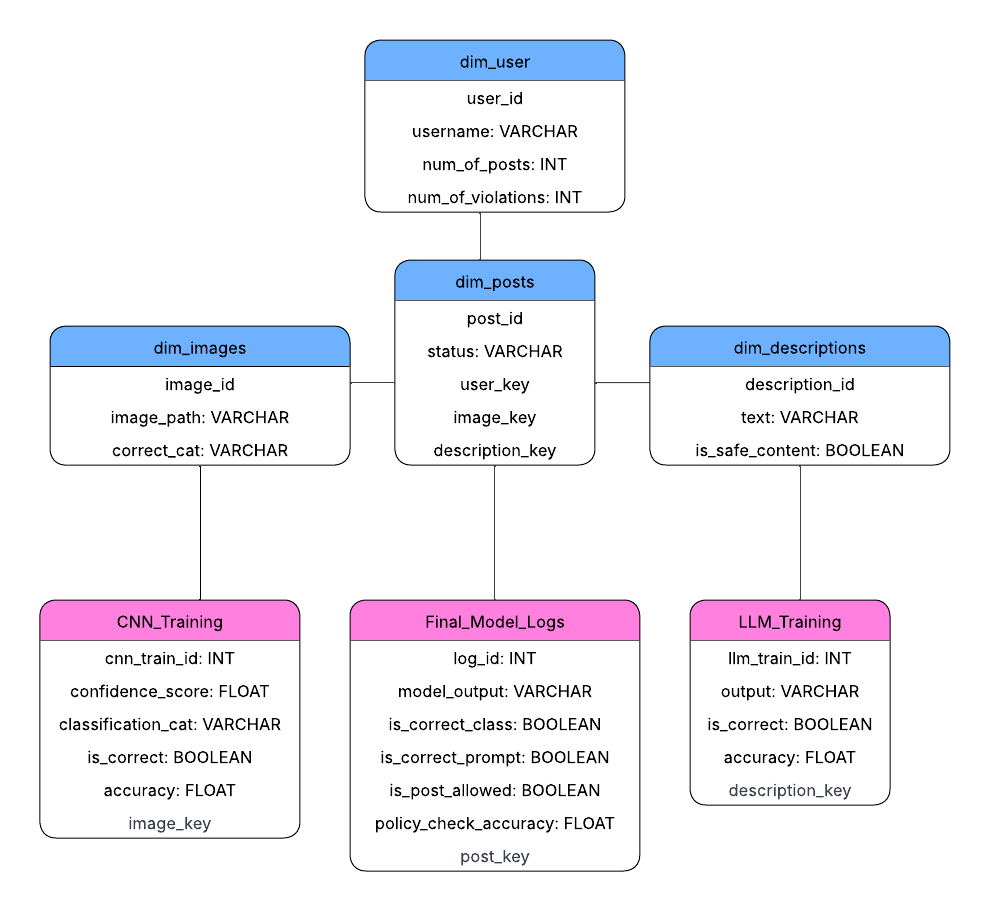
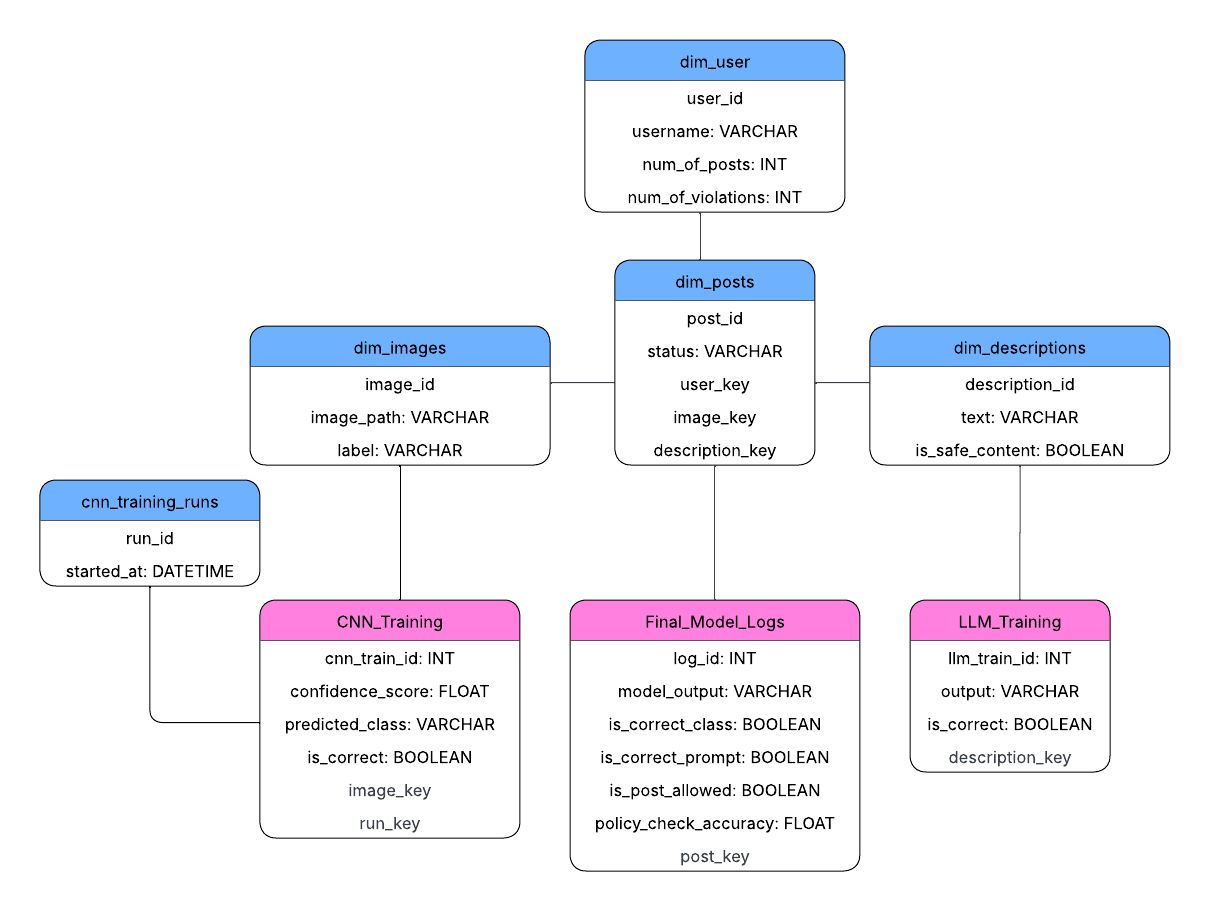
updated erd and added grain statements

Changed region(s): [[0.0303, 0.2766, 0.9697, 0.9528], [0.3636, 0.0307, 0.697, 0.2459]]

diff --git a/src/audit_db/add_img_dataset_to_db.py b/src/audit_db/add_img_dataset_to_db.py
@@ -1,0 +1,87 @@
+import os
+from sqlalchemy.orm import Session 
+from src.models.orm_models import DimImage
+from src.models.schemas import DimImageSchema
+from src.models.instances import get_engine
+
+BASE_DIR = "utils/data/humans"
+engine = get_engine()
+
+def load_images_from_directory(root_dir: str, engine: Engine) -> None: # type: ignore
+    """
+    Walks the dataset directory and inserts images into dim_image.
+    """
+    with Session(engine) as session:
+        for split in ["training", "test"]:
+            split_path = os.path.join(root_dir, split)
+
+            for label in os.listdir(split_path):
+                label_dir = os.path.join(split_path, label)
+
+                if not os.path.isdir(label_dir):
+                    continue
+
+                for filename in os.listdir(label_dir):
+                    if not filename.lower().endswith((".jpg", ".jpeg", ".png")):
+                        continue
+
+                    full_path = os.path.join(label_dir, filename)
+
+                    check_img_exists_in_db(full_path, label, session)
+        session.commit()
+
+def preload_existing_images(engine: Engine) -> set: # type: ignore
+    """Load all image paths from the DB into a fast lookup set."""
+    with Session(engine) as session:
+        rows = session.query(DimImage.image_path).all()
+        return {row[0] for row in rows}
+
+def check_img_exists_in_db(file_path: str, name: str, session: Session) -> DimImage:
+    """Helper method to verify if an image exists in the dim _image table of DB.
+
+    Args:
+        file_path (str): file_path to image
+        name (str): class/label of image
+        session (Session): orm session for DML
+
+    Raises:
+        ValueError: if img_row not found or created raise error
+
+    Returns:
+        DimImage: the corresponding table row for the provided file_path
+    """
+    img_row = None
+    existing_imgs = preload_existing_images(engine)
+    
+    if file_path not in existing_imgs:
+        # Create Pydantic schema
+        img_schema = DimImageSchema(
+            image_path=file_path,
+            label=str(name)
+        )
+
+        # Convert to ORM
+        img_row = DimImage(**img_schema.model_dump())
+        session.add(img_row)
+        session.commit()
+        session.refresh(img_row)
+
+        # Add to in-memory set
+        existing_imgs.add(file_path)
+        print(f"New image added to DB: {file_path}") #TODO: logger
+
+    else:
+        # Fetch existing image row
+        img_row = session.query(DimImage).filter_by(image_path=file_path).first()
+    
+    if not img_row: raise ValueError(f"An entry was not found and could not be made for: {file_path}")
+    
+    return img_row
+
+# Run file to add all images of /data directory to din_image table of DB
+if __name__ == "__main__":
+    try: 
+        load_images_from_directory(BASE_DIR, engine)
+        print(f"Images have been added successfully to DB!") # TODO: change this to a logger
+    except:
+        raise ConnectionError("Unable to add images to dim_images table in DB.")

diff --git a/src/models/orm_models.py b/src/models/orm_models.py
@@ -3,14 +3,18 @@ from sqlalchemy.orm import declarative_base
 from src.models.instances import get_engine
 
 Base = declarative_base()
-# TODO: remove accuracy from erd.png; add training_runs
-## change vars to label, predicted_class
+# TODO: 
+# add grains to table, scd DocStrings
 
 # =========================
 # Dimension Tables
 # =========================
 
 class DimUser(Base):
+    """
+    Grain: Each row represents a unique user.
+    SCD: Type 1 - Overwrites existing data when changes occur.
+    """
     __tablename__ = "dim_user"
 
     user_id = Column(Integer, primary_key=True, autoincrement=True)
@@ -20,6 +24,10 @@ class DimUser(Base):
 
 
 class DimImage(Base):
+    """
+    Grain: Each row represents a unique image.
+    SCD: Type 1 - Overwrites existing data when changes occur.
+    """
     __tablename__ = "dim_image"
 
     image_id = Column(Integer, primary_key=True, autoincrement=True)
@@ -28,6 +36,10 @@ class DimImage(Base):
 
 
 class DimDescription(Base):
+    """
+    Grain: Each row represents a unique description.
+    SCD: Type 1 - Overwrites existing data when changes occur.
+    """
     __tablename__ = "dim_description"
 
     description_id = Column(Integer, primary_key=True, autoincrement=True)
@@ -36,6 +48,10 @@ class DimDescription(Base):
 
 
 class DimPost(Base):
+    """
+    Grain: Each row represents a unique post.
+    SCD: Type 1 - Overwrites existing data when changes occur.
+    """
     __tablename__ = "dim_post"
 
     post_id = Column(Integer, primary_key=True, autoincrement=True)
@@ -53,7 +69,7 @@ class DimPost(Base):
 
 class CNNTraining(Base):
     """
-    Grain: Each row represents one image classified by the CNN_model in a given validation stage of a training session.
+    Grain: Each row represents one image classified by the CNN_model in a training session.
     """
     __tablename__ = "cnn_training"
 
@@ -68,6 +84,9 @@ class CNNTraining(Base):
 
 
 class LLMTraining(Base):
+    """
+    Grain: Each row represents one description processed by the LLM model in a training session.
+    """
     __tablename__ = "llm_training"
 
     llm_train_id = Column(Integer, primary_key=True, autoincrement=True)
@@ -79,12 +98,18 @@ class LLMTraining(Base):
     description_key = Column(Integer, ForeignKey("dim_description.description_id"), nullable=False)
     
 class CNNTrainingRun(Base):
+    """
+    Grain: Each row represents a unique training run of the CNN model.
+    """
     __tablename__ = "cnn_training_runs"
 
     run_id = Column(Integer, primary_key=True, autoincrement=True)
     started_at  = Column(DateTime, server_default=func.now())
 
 class FinalModelLog(Base):
+    """
+    Grain: Each row represents the output of the final model for a given post.
+    """
     __tablename__ = "final_model_logs"
 
     log_id = Column(Integer, primary_key=True, autoincrement=True)
